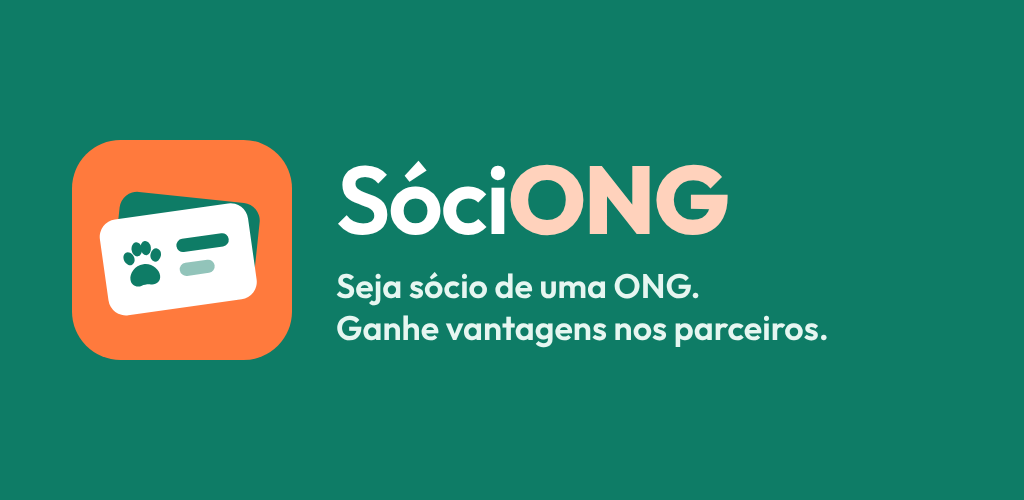
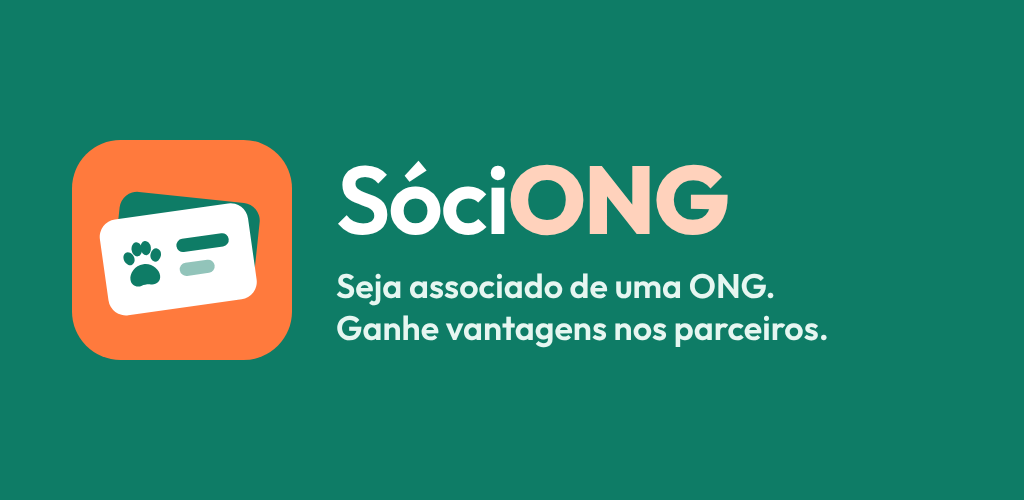
Troca "sócio" por "associado" em todo o produto (o nome SóciONG fica)
- App dos associados e dos parceiros, painel, relatório da ONG, e-mails, notificações
- Termos de uso e política de privacidade padrão de cada ONG
- Arte de destaque da Play Store refeita ("Seja associado de uma ONG.")

Claude-Session: https://claude.ai/code/session_01C8yVCmPtQV2NVrGJrDSnWJ

Changed region(s): [[0.375, 0.54, 0.75, 0.6]]

diff --git a/admin/ong.html b/admin/ong.html
@@ -63,7 +63,7 @@
   <!-- Entrar -->
   <form class="card auth" id="formLogin" hidden onsubmit="entrar(event)">
     <h1>Relatório da ONG</h1>
-    <p class="muted" style="margin:0">Acompanhe sócios, receita, doações e o crescimento da sua ONG.</p>
+    <p class="muted" style="margin:0">Acompanhe associados, receita, doações e o crescimento da sua ONG.</p>
     <label for="email">E-mail</label>
     <input id="email" type="email" autocomplete="username" required>
     <label for="senha">Senha</label>
@@ -106,19 +106,19 @@
     <div class="kpis" id="kpis"></div>
     <section class="card fee" id="taxa">
       <h2 style="margin:0;font-size:1.05rem">Taxa SóciONG (<span id="taxaPct">10%</span> do valor bruto)</h2>
-      <p class="muted" style="margin:4px 0 12px">Calculada sobre tudo o que entrou pelo app: mensalidades dos sócios, doações e pagamentos dos parceiros. Cada mês fechado vira uma cobrança.</p>
+      <p class="muted" style="margin:4px 0 12px">Calculada sobre tudo o que entrou pelo app: mensalidades dos associados, doações e pagamentos dos parceiros. Cada mês fechado vira uma cobrança.</p>
       <div class="kpis" style="margin:0" id="taxaCards"></div>
       <div id="taxaLista"></div>
     </section>
     <div class="charts">
       <section class="card chart"><h2>Receita de mensalidades</h2><p class="muted" style="margin:0" id="totReceita"></p><div class="bars" id="chReceita" role="img"></div></section>
-      <section class="card chart"><h2>Novos sócios</h2><p class="muted" style="margin:0" id="totSocios"></p><div class="bars" id="chSocios" role="img"></div></section>
+      <section class="card chart"><h2>Novos associados</h2><p class="muted" style="margin:0" id="totSocios"></p><div class="bars" id="chSocios" role="img"></div></section>
       <section class="card chart"><h2>Doações</h2><p class="muted" style="margin:0" id="totDoacoes"></p><div class="bars" id="chDoacoes" role="img"></div></section>
       <section class="card chart"><h2>Descontos usados nos parceiros</h2><p class="muted" style="margin:0" id="totUsos"></p><div class="bars" id="chUsos" role="img"></div></section>
     </div>
     <section class="card" style="margin-top:14px">
       <h2 style="margin:0;font-size:1.05rem">Mês a mês</h2>
-      <div class="tablebox"><table><thead><tr><th scope="col">Mês</th><th scope="col">Novos sócios</th><th scope="col">Mensalidades</th><th scope="col">Doações</th><th scope="col">Parceiros</th><th scope="col">Total bruto</th><th scope="col">Taxa SóciONG</th><th scope="col">Descontos usados</th><th scope="col">Adoções</th></tr></thead><tbody id="tabela"></tbody></table></div>
+      <div class="tablebox"><table><thead><tr><th scope="col">Mês</th><th scope="col">Novos associados</th><th scope="col">Mensalidades</th><th scope="col">Doações</th><th scope="col">Parceiros</th><th scope="col">Total bruto</th><th scope="col">Taxa SóciONG</th><th scope="col">Descontos usados</th><th scope="col">Adoções</th></tr></thead><tbody id="tabela"></tbody></table></div>
     </section>
   </main>
   <p class="err" id="errGeral" role="alert"></p>
@@ -202,12 +202,12 @@
       document.getElementById('atualizado').textContent = `Atualizado em ${new Date(d.generatedAt).toLocaleString('pt-BR', { dateStyle: 'short', timeStyle: 'short' })}`;
       const k = d.kpis;
       const cards = [
-        ['Sócios ativos', int(k.activeMembers), ''],
-        ['Novos sócios (30 dias)', int(k.newMembers30d), trend(k.newMembersTrend)],
+        ['Associados ativos', int(k.activeMembers), ''],
+        ['Novos associados (30 dias)', int(k.newMembers30d), trend(k.newMembersTrend)],
         ['Mensalidades no mês', brl(k.revenueMonth), trend(k.revenueTrend)],
         ['Doações no mês', brl(k.donationsMonth), ''],
         ['Parceiros ativos', int(k.activePartners), ''],
-        ['Descontos usados (30 dias)', int(k.cardUses30d), `<span class="muted">${int(k.membersUsingCard30d)} sócios usaram</span>`],
+        ['Descontos usados (30 dias)', int(k.cardUses30d), `<span class="muted">${int(k.membersUsingCard30d)} associados usaram</span>`],
         ['Adoções concluídas', int(k.adoptionsCompleted), `<span class="muted">${int(k.animalsAvailable)} esperando um lar</span>`],
         ['Nota dos parceiros', k.ratingAvg == null ? '—' : Number(k.ratingAvg).toFixed(1).replace('.', ','), `<span class="muted">${int(k.ratingCount)} avaliações</span>`],
       ];

diff --git a/admin/index.html b/admin/index.html
@@ -2188,7 +2188,7 @@
                                     <option>Ração e alimentação</option><option>Outros serviços</option>
                                 </select><span class="fx-error"></span></div>
                             <div class="fx-field fx-col-6"><label for="cf-description">Descrição <span class="fx-optional">(opcional)</span></label>
-                                <textarea id="cf-description" name="description" class="fx-input" maxlength="2000" placeholder="O que a empresa oferece e qual o benefício para quem é sócio da ONG."></textarea>
+                                <textarea id="cf-description" name="description" class="fx-input" maxlength="2000" placeholder="O que a empresa oferece e qual o benefício para quem é associado da ONG."></textarea>
                                 <span class="fx-hint">Aparece na página da empresa no app.</span><span class="fx-error"></span></div>
                             <div class="fx-field fx-col-6"><label for="cf-logo">Logo <span class="fx-optional">(opcional)</span></label>
                                 <input id="cf-logo" name="logo" class="fx-input" type="url" placeholder="https://… link da imagem do logo">
@@ -5384,7 +5384,7 @@
                     </details>
                     <div id="orgSecMsg"></div>
                     <h4 style="margin:18px 0 6px;">Acesso ao relatório da ONG (só leitura)</h4>
-                    <p class="muted" style="margin:0 0 8px;">Quem a ONG indicar vê sócios, receita, doações e crescimento em <strong>ong.html</strong>, sem mexer em nada. O convite vai por e-mail (vale 72 horas).</p>
+                    <p class="muted" style="margin:0 0 8px;">Quem a ONG indicar vê associados, receita, doações e crescimento em <strong>ong.html</strong>, sem mexer em nada. O convite vai por e-mail (vale 72 horas).</p>
                     <div id="orgReportUsers" class="muted">Carregando…</div>
                     <div class="form-row" style="align-items:end; margin-top:8px;">
                         <div class="form-group"><label class="form-label" for="ru-name">Nome</label><input class="form-input" id="ru-name" placeholder="Ex.: Maria (tesoureira)"></div>

diff --git a/brand/render-logos.js b/brand/render-logos.js
@@ -21,7 +21,7 @@ const word = (dark) =>
 const PAGES = {
   'logo-horizontal.png': {w: 1200, h: 360, html: `<div style="width:1200px;height:360px;display:flex;align-items:center;justify-content:center;gap:48px">${icon(240)}<div style="font-size:150px;letter-spacing:-3px">${word(false)}</div></div>`, transparent: true},
   'logo-horizontal-escuro.png': {w: 1200, h: 360, html: `<div style="width:1200px;height:360px;background:#10231F;display:flex;align-items:center;justify-content:center;gap:48px">${icon(240)}<div style="font-size:150px;letter-spacing:-3px">${word(true)}</div></div>`},
-  'store/feature-graphic-1024x500.png': {w: 1024, h: 500, html: `<div style="width:1024px;height:500px;background:#0E7C66;display:flex;align-items:center;gap:44px;padding:0 72px">${icon(220)}<div style="display:flex;flex-direction:column;gap:18px"><div style="font-size:96px;letter-spacing:-2px;line-height:1"><span style="font-weight:600;color:#FFFFFF">Sóci</span><span style="font-weight:800;color:#FFD2BC">ONG</span></div><div style="font-size:34px;font-weight:600;color:#E6F6F1;line-height:1.25">Seja sócio de uma ONG.<br>Ganhe vantagens nos parceiros.</div></div></div>`},
+  'store/feature-graphic-1024x500.png': {w: 1024, h: 500, html: `<div style="width:1024px;height:500px;background:#0E7C66;display:flex;align-items:center;gap:44px;padding:0 72px">${icon(220)}<div style="display:flex;flex-direction:column;gap:18px"><div style="font-size:96px;letter-spacing:-2px;line-height:1"><span style="font-weight:600;color:#FFFFFF">Sóci</span><span style="font-weight:800;color:#FFD2BC">ONG</span></div><div style="font-size:34px;font-weight:600;color:#E6F6F1;line-height:1.25">Seja associado de uma ONG.<br>Ganhe vantagens nos parceiros.</div></div></div>`},
 };
 
 (async () => {

diff --git a/backend/api/lib/ongReport.ts b/backend/api/lib/ongReport.ts
@@ -152,8 +152,8 @@ async function issueLink(db: any, userId: string, email: string, orgName: string
   const mail = await sendEmail({
     to: email,
     subject: `SóciONG: ${title}`,
-    text: `${title}.\n\nCrie sua senha neste link (vale ${INVITE_HOURS} horas):\n${url}\n\nNo relatório você acompanha sócios, receita, doações e o crescimento da ONG. Equipe SóciONG`,
-    html: `<p>${escapeHtml(title)}.</p><p><a href="${url}" style="background:#0E7C66;color:#fff;padding:10px 18px;border-radius:8px;text-decoration:none;font-weight:bold">Criar minha senha</a></p><p style="color:#4B5E59;font-size:13px">O link vale ${INVITE_HOURS} horas. No relatório você acompanha sócios, receita, doações e o crescimento da ONG.</p><p>Equipe SóciONG</p>`,
+    text: `${title}.\n\nCrie sua senha neste link (vale ${INVITE_HOURS} horas):\n${url}\n\nNo relatório você acompanha associados, receita, doações e o crescimento da ONG. Equipe SóciONG`,
+    html: `<p>${escapeHtml(title)}.</p><p><a href="${url}" style="background:#0E7C66;color:#fff;padding:10px 18px;border-radius:8px;text-decoration:none;font-weight:bold">Criar minha senha</a></p><p style="color:#4B5E59;font-size:13px">O link vale ${INVITE_HOURS} horas. No relatório você acompanha associados, receita, doações e o crescimento da ONG.</p><p>Equipe SóciONG</p>`,
   }).catch(() => ({ ok: false }));
   return { url, emailed: !!(mail as any)?.ok };
 }

diff --git a/backend/api/lib/asaas.ts b/backend/api/lib/asaas.ts
@@ -7,7 +7,7 @@
  *   (ASAAS_PLATFORM_WALLET_ID). Sem carteira definida, não há split e a taxa continua sendo
  *   cobrada pela fatura mensal (platformFees).
  * - Cartão: o app NÃO recebe o número do cartão. A cobrança gera a página de pagamento do Asaas
- *   (invoiceUrl) e o sócio digita o cartão lá. Nada de cartão passa pelo nosso servidor.
+ *   (invoiceUrl) e o associado digita o cartão lá. Nada de cartão passa pelo nosso servidor.
  * - Ambiente: deduzido da própria chave ($aact_prod_… = produção; $aact_hmlg_… = sandbox),
  *   com ASAAS_ENV como reserva.
  *
@@ -191,7 +191,7 @@ function toResult(p: any, extra: Partial<PagBankOrderResult> = {}): PagBankOrder
 /**
  * Cria a cobrança na conta Asaas da ONG. Devolve o mesmo formato do PagBank, para o resto
  * do sistema não precisar saber qual é o gateway.
- * Cartão (crédito ou débito): sem dados de cartão; o sócio paga na página do Asaas (paymentLink).
+ * Cartão (crédito ou débito): sem dados de cartão; o associado paga na página do Asaas (paymentLink).
  */
 export async function createAsaasPayment(
   input: CreateOrderInput & { feeRate?: number },

diff --git a/backend/api/lib/partnerPush.ts b/backend/api/lib/partnerPush.ts
@@ -389,7 +389,7 @@ async function sendCampaign(db: any, id: string) {
     Number(recipients) || 0,
     push.success,
   );
-  await notifyPartner(db, c.partnerId, 'Sua notificação foi enviada! 🎉', `"${c.title}" foi enviada para os sócios da ${await orgName(db, org)}.`);
+  await notifyPartner(db, c.partnerId, 'Sua notificação foi enviada! 🎉', `"${c.title}" foi enviada para os associados da ${await orgName(db, org)}.`);
   return { recipients: Number(recipients) || 0, pushAttempted: push.attempted, pushSuccess: push.success };
 }
 
@@ -659,7 +659,7 @@ export async function handlePartnerPushRoutes(
       order = await createGatewayOrder({
         referenceId: `PUSH-${paymentId.slice(0, 8)}`,
         amountCents,
-        description: `Notificação para sócios — ${await orgName(db)}`,
+        description: `Notificação para associados — ${await orgName(db)}`,
         customer: { name: payer?.name || campaign.partnerName, email: payer?.email, taxId, phone: payer?.phone },
         method: payMethod as any,
         notificationUrl: gatewayNotificationUrl(apiBase),

diff --git a/mobile/src/partner/screens/PushCampaignsScreen.js b/mobile/src/partner/screens/PushCampaignsScreen.js
@@ -152,7 +152,7 @@ export default function PushCampaignsScreen({navigation}) {
         style={{backgroundColor: COLORS.primarySoft, borderColor: '#99F6E4'}}>
         <Text
           style={{fontSize: 16, fontWeight: '800', color: COLORS.primaryDark}}>
-          Fale com todos os sócios da {org?.name || 'sua ONG'}
+          Fale com todos os associados da {org?.name || 'sua ONG'}
         </Text>
         <Text style={{color: COLORS.primaryDark, marginTop: 4}}>
           {data
@@ -270,7 +270,7 @@ export default function PushCampaignsScreen({navigation}) {
             onChangeText={setBody}
             maxLength={limits.bodyMax}
             multiline
-            placeholder="Ex.: Só nesta semana, sócios da ONG têm 20% no banho e tosa. Mostre a carteirinha!"
+            placeholder="Ex.: Só nesta semana, associados da ONG têm 20% no banho e tosa. Mostre a carteirinha!"
             testID="push-mensagem"
           />
           <Text style={[ui.label, {fontSize: 15, marginTop: 4}]}>Quando enviar?</Text>

diff --git a/mobile/src/partner/screens/CompanyEditScreen.js b/mobile/src/partner/screens/CompanyEditScreen.js
@@ -1,7 +1,7 @@
 /**
  * App Parceiros → Dados da empresa.
  * Edição guiada (logo por foto, categoria em chips, CEP automático, grade de horários)
- * com prévia ao vivo de como a empresa aparece para os sócios no app SóciONG.
+ * com prévia ao vivo de como a empresa aparece para os associados no app SóciONG.
  */
 import React, {useCallback, useEffect, useMemo, useRef, useState} from 'react';
 import {
@@ -625,7 +625,7 @@ export default function CompanyEditScreen({navigation}) {
               onChangeText={v => set({description: v})}
               multiline
               maxLength={DESCRIPTION_MAX}
-              placeholder="O que a empresa oferece e qual o benefício para quem é sócio da ONG."
+              placeholder="O que a empresa oferece e qual o benefício para quem é associado da ONG."
               hint={`${form.description.length}/${DESCRIPTION_MAX} · aparece em "Benefício" na página da empresa`}
               style={{marginBottom: 0}}
             />

diff --git a/mobile/src/screens/PartnerDetailScreen.js b/mobile/src/screens/PartnerDetailScreen.js
@@ -63,7 +63,7 @@ export default function PartnerDetailScreen({route, navigation, partner: partner
     category: 'Pet Shop',
     discount: '20%',
     description:
-      'Desconto de 20% em todos os produtos para sócios.',
+      'Desconto de 20% em todos os produtos para associados.',
     address: 'Rua Exemplo, 123 - Centro',
     phone: '(14) 3811-1234',
     whatsapp: '14981234567',
@@ -335,7 +335,7 @@ export default function PartnerDetailScreen({route, navigation, partner: partner
                   <Text style={styles.stepNumberText}>2</Text>
                 </View>
                 <Text style={styles.stepText}>
-                  Diga que é sócio e mostre a carteirinha
+                  Diga que é associado e mostre a carteirinha
                 </Text>
               </View>
               <View style={styles.stepItem}>

diff --git a/mobile/src/screens/PartnersScreen.js b/mobile/src/screens/PartnersScreen.js
@@ -229,7 +229,7 @@ export default function PartnersScreen({navigation, route}) {
           <View style={styles.searchContainer}>
             <Text style={styles.heroTitle} maxFontSizeMultiplier={1.15}>Parceiros</Text>
             <Text style={styles.heroSub} maxFontSizeMultiplier={1.15}>
-              {partners.length ? `${partners.length} lugares com desconto para membros` : 'Descontos para sócios'}
+              {partners.length ? `${partners.length} lugares com desconto para membros` : 'Descontos para associados'}
             </Text>
             <View style={styles.searchBar}>
               <Ionicons name="search" size={18} color="#9CA3AF" />

diff --git a/mobile/src/partner/screens/PartnerSignupScreen.js b/mobile/src/partner/screens/PartnerSignupScreen.js
@@ -103,7 +103,7 @@ export default function PartnerSignupScreen({navigation, fetchImpl = fetch}) {
       <ScrollView style={ui.screen} contentContainerStyle={ui.content} keyboardShouldPersistTaps="handled">
         <Text style={ui.title}>Quero ser parceiro</Text>
         <Text style={[ui.muted, {marginBottom: 12}]}>
-          Sua empresa dá desconto aos sócios de uma ONG e aparece no app para eles. Escolha a ONG e mande seus dados: nossa equipe entra em contato.
+          Sua empresa dá desconto aos associados de uma ONG e aparece no app para eles. Escolha a ONG e mande seus dados: nossa equipe entra em contato.
         </Text>
 
         <Card>
